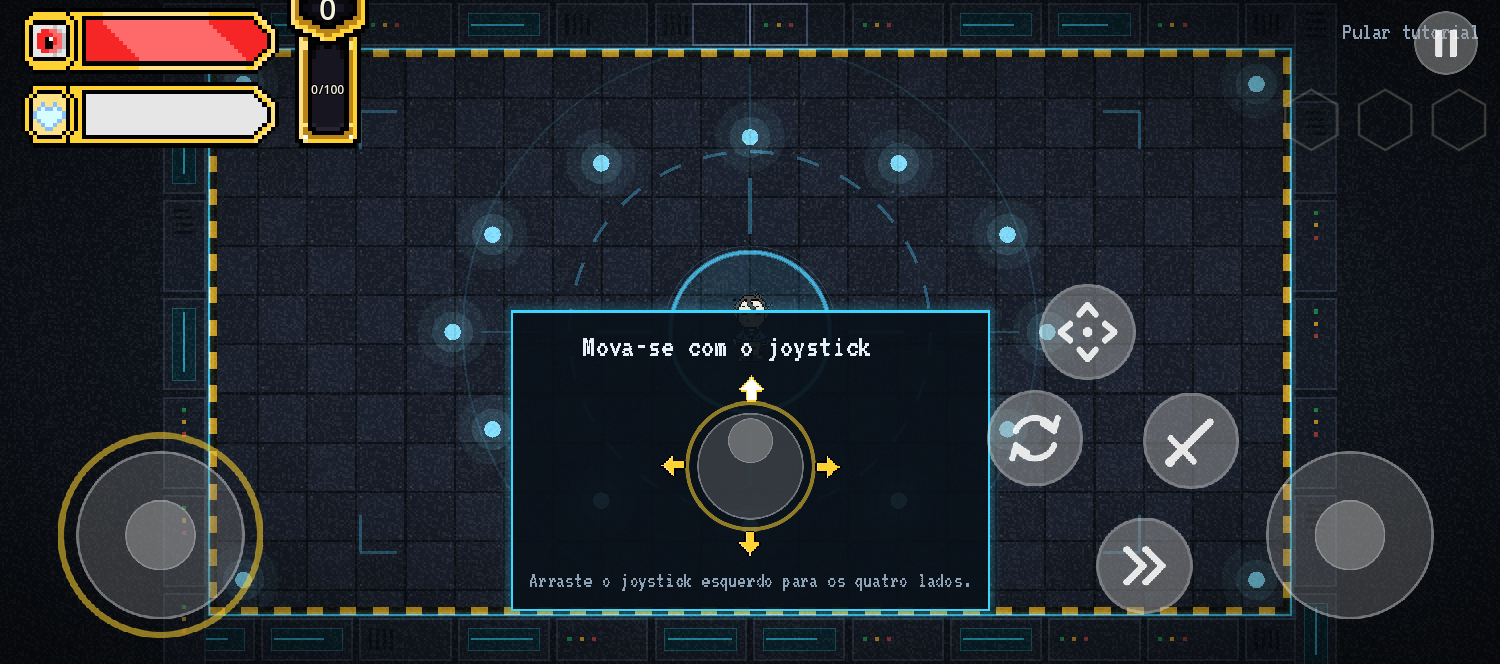
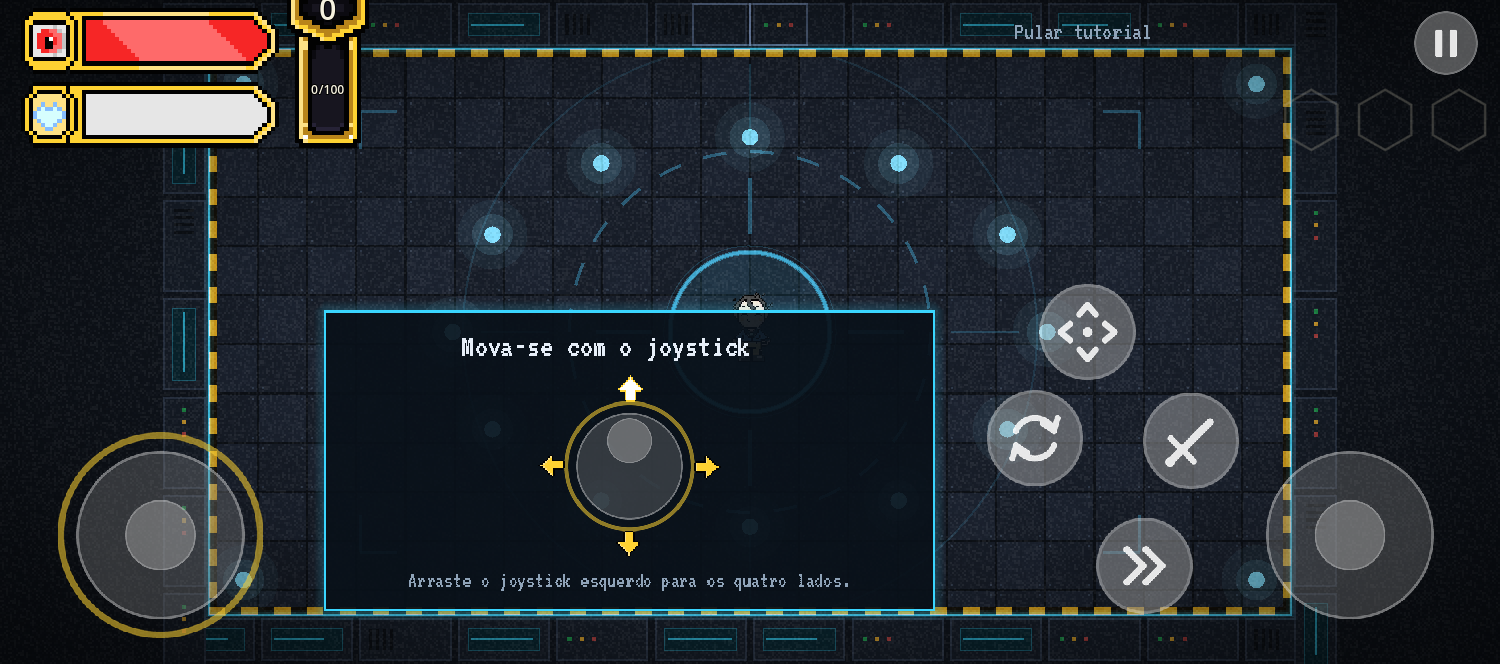
Relatório, testes deterministas (sem troca de cena real, tiro por estado), capturas atualizadas e painel do tutorial fora dos controles

diff --git a/RELATORIO.md b/RELATORIO.md
@@ -1,0 +1,117 @@
+# Relatório — Returing multiplataforma (Windows, Linux, macOS, Android e iOS)
+
+- **Branch:** `turing-apk` — <https://github.com/IcaroFrancioni/O-que-o-Claude-Faz/tree/turing-apk>
+- **Godot:** 4.7.2 stable (Windows, console). Templates oficiais 4.7.2 instalados (SHA-512 conferido).
+- **Último commit:** ver `git log -1` da branch (o hash final vai na mensagem de entrega).
+
+## 1. O que foi feito, por seção do pedido
+
+| Seção | Resumo |
+|---|---|
+| Regra geral | Autoload `Platform` (`is_mobile()`, `is_desktop()`, `platform_name()`, `is_real_device()`, `can_quit()`); `--mobile` força o modo celular no PC; notebook com touch fica em modo computador; só `user://`/`res://`; teste de caminhos com maiúsculas/minúsculas exatas; stretch `canvas_items`, aspect `expand`, paisagem com sensor, área segura. |
+| 1. Layout mobile | `MobileControls` + `MobileLayout`: joysticks fixos, botões de espada, dash, trocar arma, modo comando e pausa (sempre por cima), HUD de status, quadro de comandos na região do print, multitouch. Mesmas ações do InputMap. |
+| 2. Pular cutscene | `SkipCutsceneButton` ("Avançar cutscene", caixa marrom e fonte do jogo) no `Dialogue` e na cutscene 2; computador inalterado. |
+| 3. Editor de HUD | `MobileHudEditor` no menu de pausa: arrastar, pinça/slider, limites, restaurar padrão, salvar (`user://mobile_hud.cfg`). Configurações: sensibilidade, zona morta, intervalo e "Calibrar". |
+| 4. Acelerômetro | `TiltLogic` (função pura) + `TiltInput` (autoload): mapeamento por plataforma/orientação, zona morta, low-pass, histerese, cooldown, sensor ausente → D-pad, overlay `--debug-tilt`, simulação por teclas I/J/K/L. iOS: texto de movimento no preset. |
+| 5. Tutorial mobile | 6 passos (mover, dash, tiro, trocar arma, espada, modo comando + inclinar) com ilustrações animadas e controle da vez piscando; computador igual. |
+| 6. Exportação | `export_presets.cfg` (Windows, Linux x86_64/arm64, macOS universal, Android APK/AAB arm64, iOS, Web), `exportar.sh`/`exportar.bat`, `EXPORTAR.md`. |
+| 7. Testes | `testes/` (runner `rodar_todos.gd`, capturas `capturar_todas.gd`), veja a seção 2. |
+| 8. Git | Commits pequenos em português na `turing-apk`, sem `--force`, sem segredos. |
+| 11. Assets | `tools/gerar_assets.py` + `tools/paleta.txt` → `assets/gerados/`. |
+
+## 2. Testes (versão do Godot: 4.7.2)
+
+Rodar: `godot --headless --path . --script res://testes/rodar_todos.gd` (código de saída ≠ 0 se algo falhar; também reprova qualquer
+`SCRIPT ERROR`/`ERROR:`/`WARNING:` que não seja o ruído conhecido de saída do Godot).
+
+Última execução completa, a partir de estado limpo (`.godot/` apagado e reimportado), **13 testes, 427 verificações, 0 falhas**:
+
+| Teste | Verificações | O que prova |
+|---|---|---|
+| `t_carga.gd` (PC e `--mobile`) | 23 + 23 | todos os 298 scripts/cenas carregam; assets gerados existem; caminhos `res://` com maiúsculas exatas; sem caminho absoluto |
+| `t_tilt_logico.gd` | 46 | função pura: 4 direções × Android/iOS × 2 paisagens × 2 sistemas de eixos, zona morta, sensibilidade, diagonal, unidade, sensor zero |
+| `t_tilt_input.gd` | 48 | `TiltInput` com `Input.set_accelerometer`: direções, histerese, cooldown, calibração, sensor ausente |
+| `t_pc.gd` | 32 | **regressão no computador:** sem controles de toque, teclado/mouse/Ctrl/ESC como antes, barras no lugar original |
+| `t_tutorial_pc.gd` | 14 | **regressão do tutorial no computador** (WASD, ESPAÇO, mouse; sem lições do celular) |
+| `t_controles.gd` | 61 | posições do print, quadro sem sobreposição, joysticks, tiro, multitouch, dash, espada, trocar arma, pausa por cima do menu |
+| `t_comando_mobile.gd` | 30 | botão de comando, quadro, inclinação → setas → habilidade certa, erro, histerese, D-pad sem sensor, fechar |
+| `t_layout.gd` + `t_layout_reinicio.gd` | 34 + 23 | editor: arrastar, pinça, slider, limites, barras reais e quadro, restaurar padrão, salvar; **após reiniciar o processo** o layout é restaurado |
+| `t_config.gd` | 14 | página do acelerômetro, sliders, Calibrar, gravação em `user://` |
+| `t_cutscene.gd` | 14 | botão "Avançar cutscene" (tema, posição, tamanho) pula o diálogo e a cutscene 2 |
+| `t_tutorial_mobile.gd` | 65 | tutorial inteiro com toques e inclinação simulada: cada passo só avança com a ação certa, destaque pisca, termina e pede a Fase 1 |
+
+Nenhum erro/warning de script no console (o runner reprova qualquer `SCRIPT ERROR`/`ERROR:`/`WARNING:`, exceto os vazamentos de saída do áudio do menu que já existiam).
+
+Capturas (`testes/capturas/`, geradas com janela 1500x664): `01_jogo`, `20_comando_aberto`, `21_comando_seta_cima`,
+`22_comando_sem_sensor`, `30_editor_hud`, `41…47_tutorial_*` (um por passo), `48_tutorial_melhorias`, `50_botao_avancar_cutscene`.
+Conferidas contra `referencias/mobile_layout.png`: controles nas mesmas posições. Diferença conhecida: o mundo aparece maior
+(zoom 2x e sprites 1,5x do projeto), veja `DECISOES.md` item 10.
+
+**Emulador Android:** não executado — a máquina não tem JDK nem Android SDK (e instalar SDK + imagem de sistema do emulador não cabia
+no ambiente). Plano alternativo aplicado: suíte headless + capturas + exportação desktop/web. O CI (`.github/workflows/testes.yml`)
+tenta gerar o APK debug no GitHub Actions.
+
+## 3. Exportações (neste computador, Windows)
+
+| Plataforma | Resultado |
+|---|---|
+| Windows x86_64 | OK — `build/windows/Returing.exe` (159 MB); abre e sai sem erro em headless |
+| Linux x86_64 | OK — `build/linux/Returing.x86_64` |
+| Linux arm64 | OK — `build/linux-arm64/Returing.arm64` |
+| macOS universal | OK — `build/macos/Returing.zip` (**não assinado/notarizado**: só em Mac) |
+| Web | OK — `build/web/index.html` |
+| Android APK/AAB | **Não gerado aqui:** sem JDK 17 e Android SDK. Preset e script prontos; CI tenta. |
+| iOS | **Não gerado aqui:** só em macOS com Xcode e conta Apple. Preset pronto (`com.returing.game`, iPhone+iPad, ícones, splash). |
+
+## 4. Assets gerados (`assets/gerados/`, regenerar com `python3 tools/gerar_assets.py`)
+
+Botões e joysticks: `btn_base*.png`, `ic_sword/shot/dash/swap/command/pause/interact.png`, `stick_base.png`, `stick_thumb*.png`.
+Quadro de comandos: `board_frame.png` (derivada da moldura dourada), `arrow_{up,down,left,right}[_lit|_off].png`, `dpad_base.png`,
+`tilt_ring.png`, `tilt_dot.png`. Tutorial: `phone_{neutral,up,down,left,right}.png`, `joy_demo_0..3.png`, `glow_0/1.png`.
+App: `icone_app_1024/512.png`, `icone_android_192.png`, `adaptive_fg/bg_432.png`, `icone_ios_1024.png`, `icone_win.ico`, `icone_mac.icns`, `splash_ios.png`.
+O botão "Avançar cutscene" e a caixa do tutorial usam o **tema do jogo** (não há PNG novo para eles).
+Botões/joysticks seguem o estilo suave do print; o resto é pixel art com a paleta de `tools/paleta.txt`.
+
+## 5. Problemas conhecidos e o que você precisa fazer
+
+1. **Testar o acelerômetro num celular real** (Android e iPhone). Tudo foi verificado por simulação (`Input.set_accelerometer`) e pelo código-fonte do Godot 4.4 (que gira o sensor para a tela nas duas plataformas). Se algum aparelho vier com eixos trocados, use `--debug-tilt` (overlay) e o modo `Frame.RAW` em `TiltInput.frame`.
+2. **Android:** instalar JDK 17 + Android SDK e rodar `./exportar.sh debug android` (ou usar o APK do CI). Keystore de release é seu.
+3. **iOS:** exportar e assinar num Mac (Team ID no preset).
+4. **macOS:** assinar/notarizar num Mac.
+5. O zoom da câmera no celular (2x) é maior que o do print; ajuste em `Platform.MOBILE_CAMERA_ZOOM` se preferir.
+6. Ao sair, o Godot imprime vazamentos de objetos causados pela música do menu principal (já existiam antes deste trabalho); o runner ignora só essas linhas.
+7. O push no Windows exigiu `git -c credential.helper=manager push` (o `~/.gitconfig` não tinha helper).
+
+## 6. Auditoria: requisito → implementação → teste → status
+
+| Requisito | Como foi implementado | Teste que prova | Status |
+|---|---|---|---|
+| `Platform` único (`is_mobile`, `is_desktop`, nome) | `autoload/platform.gd` | `t_pc`, `t_controles`, `t_carga` | OK |
+| Flag para forçar mobile no editor; touch de notebook = computador | `--mobile`; `is_real_device()` só Android/iOS | `t_controles` (mobile), `t_pc` (desktop) | OK |
+| Só `user://`/`res://`, maiúsculas exatas | sem caminhos absolutos | `t_carga` (verifica todos os `res://`) | OK |
+| Paisagem, `canvas_items`, `expand`, área segura | `project.godot`, `MobileControls._compute_safe_margins` | `t_controles` (janela 1500x664 → 1464x648); área segura só em aparelho real | OK (área segura só verificável em aparelho) |
+| Layout igual ao print, proporcional | `MobileLayout.DEFS` em proporção | `t_controles` (posições ±0,02 do print) + captura `01_jogo` | OK |
+| HUD de status, pausa, joysticks, espada, dash | `MobileControls`, texturas geradas | `t_controles`, captura | OK |
+| Botão de trocar arma e de modo comando sem sobreposição | posições do print | `t_controles` (nenhuma sobreposição) | OK |
+| Quadro de comandos na região azul, sem cobrir controles | `CommandBoard` + `MobileLayout.BOARD` | `t_controles`, `t_comando_mobile`, captura `20_*` | OK |
+| Conteúdo do quadro: setas, indicador de inclinação, habilidades | `CommandBoard._draw` | `t_comando_mobile` + capturas `20`, `21` | OK |
+| Multitouch, mesmas ações do InputMap | `MobileControls` | `t_controles` (mover+atirar) | OK |
+| Botão "Avançar cutscene" (só mobile) | `SkipCutsceneButton` | `t_cutscene`, `t_pc` (ausente no PC) | OK |
+| Editor de HUD (texto, arrastar, pinça/slider, limites, restaurar, salvar, persistir) | `MobileHudEditor`, `MobileLayout`, `MobileSettings` | `t_layout`, `t_layout_reinicio` | OK |
+| Sensibilidade do acelerômetro e Calibrar nas configurações | `SettingsPanel` (página Acelerômetro) | `t_config` | OK |
+| Modo comando por acelerômetro, mapeamento por plataforma/orientação | `TiltLogic`, `TiltInput` | `t_tilt_logico`, `t_tilt_input`, `t_comando_mobile` | OK em simulação; **aparelho real pendente** |
+| Zona morta, low-pass, histerese, cooldown | `TiltInput.step` | `t_tilt_input` | OK |
+| iOS: descrição de uso de sensores | `application/additional_plist_content` no preset | n/a (não há Mac) | OK (não exigido pela Apple para acelerômetro; incluído) |
+| Sem sensor: aviso + D-pad | `CommandBoard`, `MobileControls.dpad_*` | `t_comando_mobile` + captura `22_*` | OK |
+| Função pura testável; simulação com teclas; overlay de debug; `@export` | `TiltLogic.detect`, `I/J/K/L`, `--debug-tilt`, exports do `TiltInput` | `t_tilt_logico`, `t_tilt_input` (teclas); overlay sem teste automático | OK (overlay só visual) |
+| Tutorial mobile (6 passos, pisca/anima, só avança com a ação) | `tutorial.gd`, `MobileGuideIcon` | `t_tutorial_mobile` + capturas `41`–`48` | OK |
+| Tutorial de computador igual | ramos `Platform.is_mobile()` | `t_tutorial_pc` | OK |
+| Presets das 5 plataformas, scripts e `EXPORTAR.md` | `export_presets.cfg`, `exportar.sh/.bat` | exportação real: Windows, Linux x64/arm64, macOS, Web OK | OK; Android/iOS **não gerados aqui** (sem JDK/SDK/Mac) |
+| Ícones, nome, orientação, versão consistentes | presets + `config/icon` | exportação desktop/web | OK |
+| Testes headless com runner e código de saída | `testes/rodar_todos.gd` | execução limpa: 13/13 | OK |
+| Capturas em `testes/capturas/` | `capturar_todas.gd` | 15 capturas conferidas | OK |
+| Emulador Android | — | — | **Não resolvido:** sem Android SDK/JDK nesta máquina; CI tenta o APK |
+| CI | `.github/workflows/testes.yml` | não executado (precisa do GitHub) | OK (best effort, não verificado) |
+| Git: branch `turing-apk`, commits pequenos, sem force/segredos | histórico | `git log` | OK |
+| Assets gerados no estilo do projeto | `tools/gerar_assets.py`, `tools/paleta.txt` | conferência visual nas capturas | OK |
+| Regressão no computador | `t_pc`, `t_tutorial_pc` | 46 verificações | OK |
